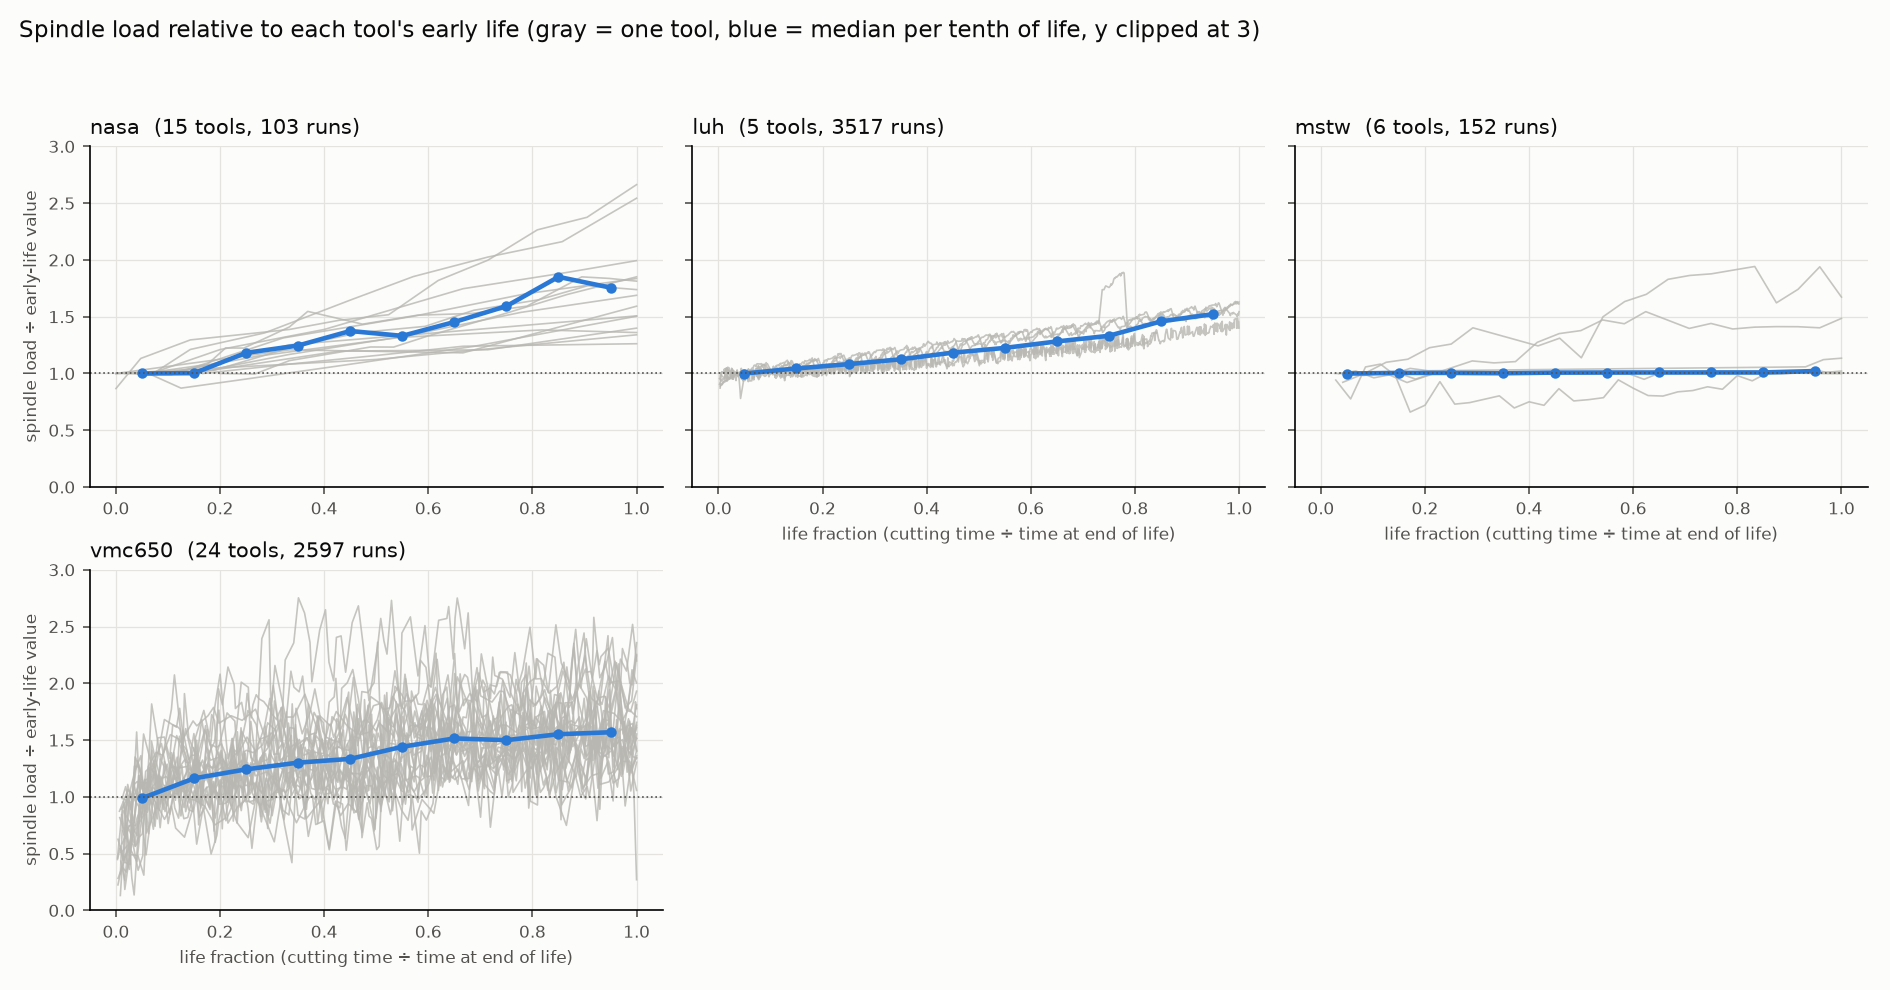
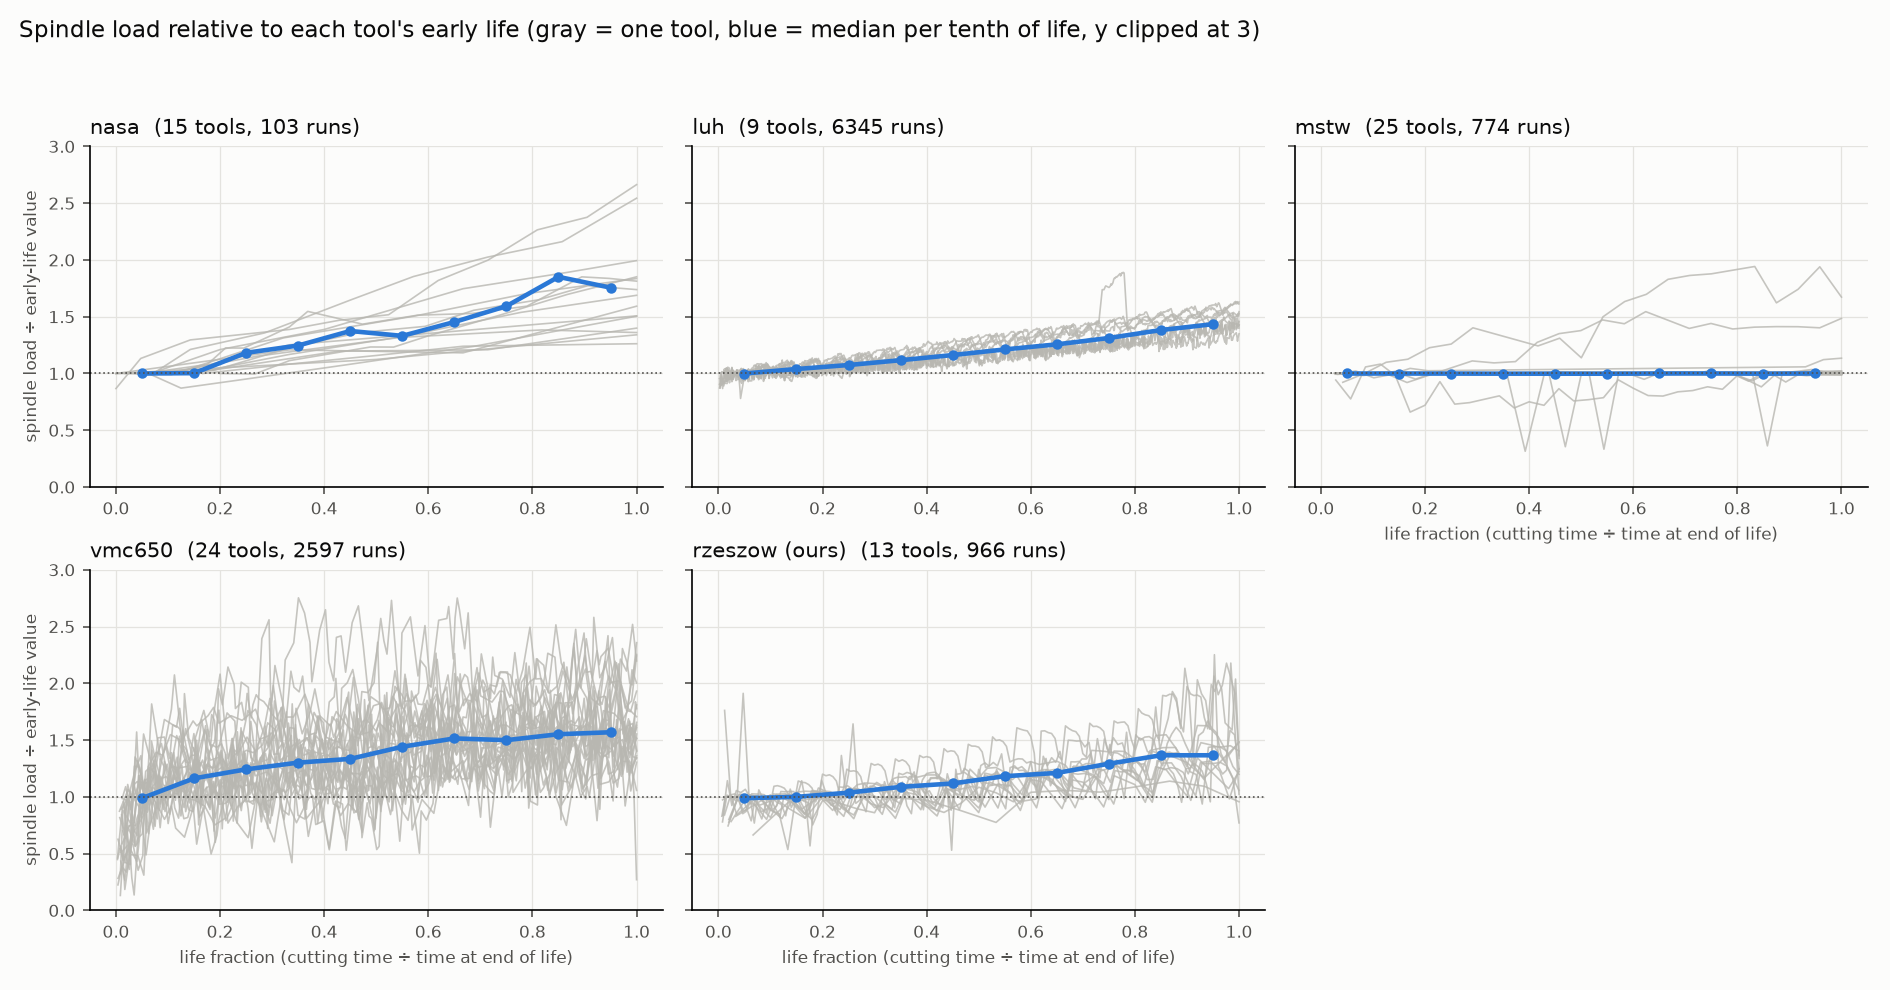
Load all of MSTW and LUH; calibrate failure curves by blurring
MSTW: skip broken lines and the seven case-4 recordings published without
headers. History model: pick a blur width for the failure curves on the
development cutters, and save inner-loop predictions for the decision layer.

diff --git a/scripts/13_train_history.py b/scripts/13_train_history.py
@@ -1,7 +1,8 @@
 """Train and test the history model on Rzeszów with nested leave-one-cutter-out.
 
 For each of the 13 cutters (outer fold): hide it; on the other 12, run inner leave-one-cutter-out to get
-out-of-fold predictions (used to set the conformal margins that widen the low/high estimates);
+out-of-fold predictions (used to pick the blur width for the failure curves and the conformal margins
+that widen the low/high estimates; also saved to results/predictions/nested/ for the decision layer);
 then train a 5-seed ensemble on all 12 and predict the hidden one. Folds run in parallel processes.
 
 Usage: python scripts/13_train_history.py --features {settings_age,physics,ae,physics_ae} [--seeds 5]
@@ -19,7 +20,7 @@ import pandas as pd
 import torch
 
 sys.path.insert(0, str(Path(__file__).resolve().parents[1] / "src"))
-from toollife.models.hazard import curves, tool_conformal_margin
+from toollife.models.hazard import curves, fit_blur, tool_conformal_margin
 from toollife.models.history import make_sequences, predict, train
 from toollife.rzeszow import ROOT
 
@@ -108,25 +109,34 @@ def run_fold(held, features, base_df, cols, seeds):
     # Inner loop: out-of-fold predictions on the 12 development cutters, for calibration only.
     oof = [fit_predict(dev[dev["tool"] != inner], dev[dev["tool"] == inner], cols, 1)[:2] for inner in sorted(dev["tool"].unique())]
     oof_rows = pd.concat([r for r, _ in oof])
-    oof_c = curves(np.concatenate([l for _, l in oof]))
+    oof_lg = np.concatenate([l for _, l in oof])
     rul_oof, tools_oof = oof_rows["rul"].to_numpy(), oof_rows["tool"].to_numpy()
+    # Blur width chosen on the 12 development cutters (each predicted by a model that never saw it).
+    sigma = fit_blur(1.0 / (1.0 + np.exp(-oof_lg)), rul_oof)
+    oof_c = curves(oof_lg, sigma=sigma)
     # Conformal widening, one score per cutter: how far below its low estimate (or above its high
     # estimate) the truth ever fell. The margin is the worst such miss seen on the other cutters.
     lo_margin = tool_conformal_margin(oof_c["rul_q10"], rul_oof, tools_oof)
     hi_margin = tool_conformal_margin(-oof_c["rul_q90"], -rul_oof, tools_oof)
 
     rows, lg, gauge = fit_predict(dev, test, cols, seeds)
-    c = curves(lg)
-    pred = rows[["tool", "age", "rul", "life", "file"]].copy()
-    pred["fold"] = held
-    for k in ("rul_q10", "rul_q50", "rul_q90", "rmst", "p_fail_1", "p_fail_3", "p_fail_5"):
-        pred[k] = c[k]
+    c = curves(lg, sigma=sigma)
+
+    def table(r, cc, role, without):
+        out = r[["tool", "age", "rul", "life", "file"]].copy()
+        out["fold"], out["role"], out["trained_without"], out["blur_sigma"] = held, role, without, sigma
+        for k in ("rul_q10", "rul_q50", "rul_q90", "rmst", "p_fail_1", "p_fail_3", "p_fail_5"):
+            out[k] = cc[k]
+        haz = pd.DataFrame(cc["hazard"][:, :60], columns=[f"hazard_{k}" for k in range(1, 61)], index=out.index)
+        return pd.concat([out, haz], axis=1)
+
+    inner = [table(r, curves(l, sigma=sigma), "inner", f"{held},{r['tool'].iloc[0]}") for r, l in oof]
+    pred = table(rows, c, "test", str(held))
     pred["rul_lower"] = np.maximum(c["rul_q10"] - max(lo_margin, 0), 0)
     pred["rul_upper"] = c["rul_q90"] + max(hi_margin, 0)
     pred["gauge"] = gauge
-    haz = pd.DataFrame(c["hazard"][:, :60], columns=[f"hazard_{k}" for k in range(1, 61)], index=pred.index)
-    print(f"cutter {held:>3}: margins -{lo_margin:.0f}/+{hi_margin:.0f} MAE(q50)={np.abs(c['rul_q50'] - rows['rul']).mean():.1f}", flush=True)
-    return pd.concat([pred, haz], axis=1)
+    print(f"cutter {held:>3}: blur {sigma:.2f} margins -{lo_margin:.0f}/+{hi_margin:.0f} MAE(q50)={np.abs(c['rul_q50'] - rows['rul']).mean():.1f}", flush=True)
+    return pred, pd.concat(inner)
 
 
 def main() -> None:
@@ -139,7 +149,16 @@ def main() -> None:
     base_df, cols = load(args.features)
     with ProcessPoolExecutor(8) as pool:
         futs = [pool.submit(run_fold, held, args.features, base_df, cols, args.seeds) for held in sorted(base_df["tool"].unique())]
-        out_rows = [f.result() for f in futs]
+        results = [f.result() for f in futs]
+    out_rows = [r for r, _ in results]
+    nested = pd.concat([r for r, _ in results] + [i for _, i in results]).reset_index(drop=True)
+    nested.insert(0, "dataset", "rzeszow")
+    nested.insert(1, "scheme", "loco")
+    nested = nested.rename(columns={"age": "run_idx"})
+    for col in ("tool", "fold"):
+        nested[col] = nested[col].astype(str)
+    (ROOT / "results" / "predictions" / "nested").mkdir(parents=True, exist_ok=True)
+    nested.to_parquet(ROOT / "results" / "predictions" / "nested" / f"history_{name}.parquet")
 
     pred = pd.concat(out_rows).reset_index(drop=True)
     pred.insert(0, "dataset", "rzeszow")

diff --git a/src/toollife/models/hazard.py b/src/toollife/models/hazard.py
@@ -47,9 +47,46 @@ def hazard_nll(logits: torch.Tensor, event_k: torch.Tensor, observed: torch.Tens
     return -ll
 
 
-def curves(logits: np.ndarray, temperature: float = 1.0) -> dict:
-    """Hazard, survival and summaries from logits [n, K]."""
-    h = 1.0 / (1.0 + np.exp(-logits / temperature))
+def blur(h: np.ndarray, sigma: float) -> np.ndarray:
+    """Widen failure curves: blur each predicted failure time in log-time by a Gaussian of width sigma.
+
+    A model trained on 12 cutters is too sure of exactly when a cutter will fail. Blurring spreads
+    each prediction over nearby cycles (proportionally: ±10% of the predicted time for sigma = 0.1),
+    keeping the curve's centre roughly in place. sigma is chosen on cutters the model did not train on.
+    """
+    if sigma <= 0:
+        return h
+    n, horizon = h.shape
+    s = np.cumprod(1.0 - h, axis=1)
+    s_prev = np.concatenate([np.ones((n, 1)), s[:, :-1]], axis=1)
+    pmf = np.concatenate([h * s_prev, s[:, -1:]], axis=1)  # [n, K+1]; last = still alive after K
+    x = np.log(np.arange(1, horizon + 2))
+    kernel = np.exp(-0.5 * ((x[None, :] - x[:, None]) / sigma) ** 2)
+    kernel /= kernel.sum(1, keepdims=True)
+    new = pmf @ kernel
+    s_new = 1.0 - np.cumsum(new[:, :horizon], axis=1)
+    s_new_prev = np.concatenate([np.ones((n, 1)), s_new[:, :-1]], axis=1)
+    return np.clip(new[:, :horizon] / np.clip(s_new_prev, 1e-9, None), 1e-6, 1 - 1e-6)
+
+
+def nll_np(h: np.ndarray, event_k: np.ndarray) -> float:
+    """Mean negative log-likelihood of observed failures at step event_k (1-based) under hazards h."""
+    k = np.arange(1, h.shape[1] + 1)[None, :]
+    ek = np.clip(event_k, 1, h.shape[1])[:, None]
+    ll = (np.log1p(-h) * (k < ek)).sum(1) + np.log(h[np.arange(len(h)), ek[:, 0] - 1])
+    return float(-ll.mean())
+
+
+def fit_blur(h: np.ndarray, event_k: np.ndarray) -> float:
+    """Blur width that best predicts the failures of cutters the model did not train on."""
+    grid = [0.0, 0.05, 0.1, 0.15, 0.2, 0.3, 0.4, 0.5, 0.7, 1.0, 1.5]
+    scores = [nll_np(blur(h, g), event_k) for g in grid]
+    return grid[int(np.argmin(scores))]
+
+
+def curves(logits: np.ndarray, temperature: float = 1.0, sigma: float = 0.0) -> dict:
+    """Hazard, survival and summaries from logits [n, K], optionally widened by blur(sigma)."""
+    h = blur(1.0 / (1.0 + np.exp(-logits / temperature)), sigma)
     s = np.cumprod(1.0 - h, axis=1)
     horizon = h.shape[1]
 

diff --git a/src/toollife/datasets/mstw.py b/src/toollife/datasets/mstw.py
@@ -89,8 +89,11 @@ def parse_recording(data: bytes) -> pd.DataFrame:
     """One recording CSV (header, then a unit row, then 1 kHz samples) as a DataFrame.
 
     A few recordings contain broken lines (2 values instead of 7) or a repeated header line inside
-    the data; such lines are dropped.
+    the data; such lines are dropped. Seven recordings of case 4 were published damaged (they start
+    mid-file with no header, one is binary); those raise ValueError and are marked unusable.
     """
+    if not data.startswith(b"Time,"):
+        raise ValueError("recording has no header (damaged in the published archive)")
     try:
         table = pacsv.read_csv(io.BytesIO(data), read_options=pacsv.ReadOptions(skip_rows_after_names=1, use_threads=False))
         df = table.to_pandas()
@@ -98,15 +101,22 @@ def parse_recording(data: bytes) -> pd.DataFrame:
             return df
     except (pa.ArrowInvalid, ValueError):
         pass
-    df = pd.read_csv(io.BytesIO(data), skiprows=[1], on_bad_lines="skip", dtype=str)
-    return df.apply(pd.to_numeric, errors="coerce").dropna().reset_index(drop=True)
+    df = pd.read_csv(io.BytesIO(data), skiprows=[1], on_bad_lines="skip", dtype=str, encoding="latin-1")
+    raw_rows = len(df)
+    df = df.apply(pd.to_numeric, errors="coerce").dropna().reset_index(drop=True)
+    if len(df) < 0.95 * raw_rows:
+        raise ValueError(f"recording damaged: only {len(df)} of {raw_rows} lines readable")
+    return df
 
 
 def run_features(job: tuple) -> dict:
     """Physics features of one recording. job = (zip path, member name, zip entry)."""
     path, name, entry = job
     data = zip_read(path, entry)
-    d = parse_recording(data)
+    try:
+        d = parse_recording(data)
+    except (ValueError, UnicodeDecodeError) as e:  # a damaged recording: keep the row, mark it unusable
+        return {"member": name, "signal_ok": False, "cut_time_s": np.nan, "md5": hashlib.md5(data).hexdigest(), "error": str(e)[:80]}
     rpm = float(FOLDER.search(name).group(2))
     out = {"member": name, "signal_ok": len(d) > 10 * FS, "cut_time_s": len(d) / FS,
            "md5": hashlib.md5(data).hexdigest()}
